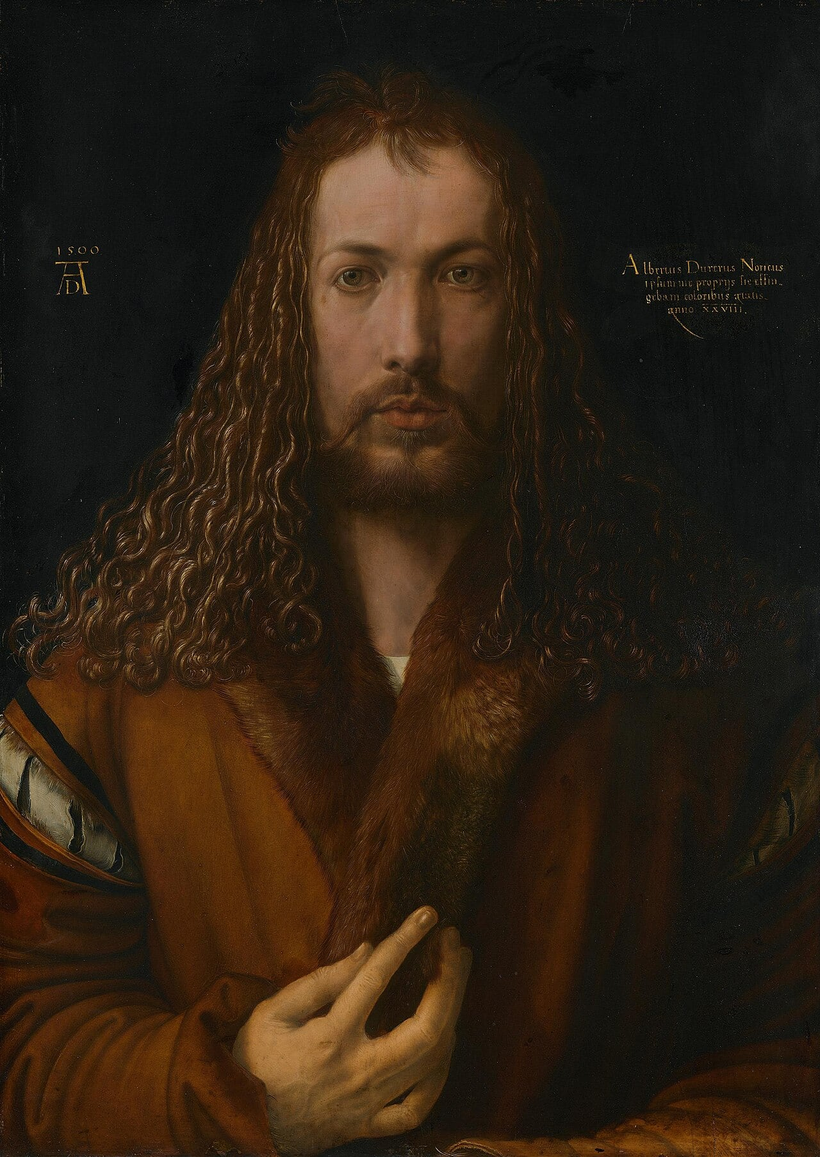
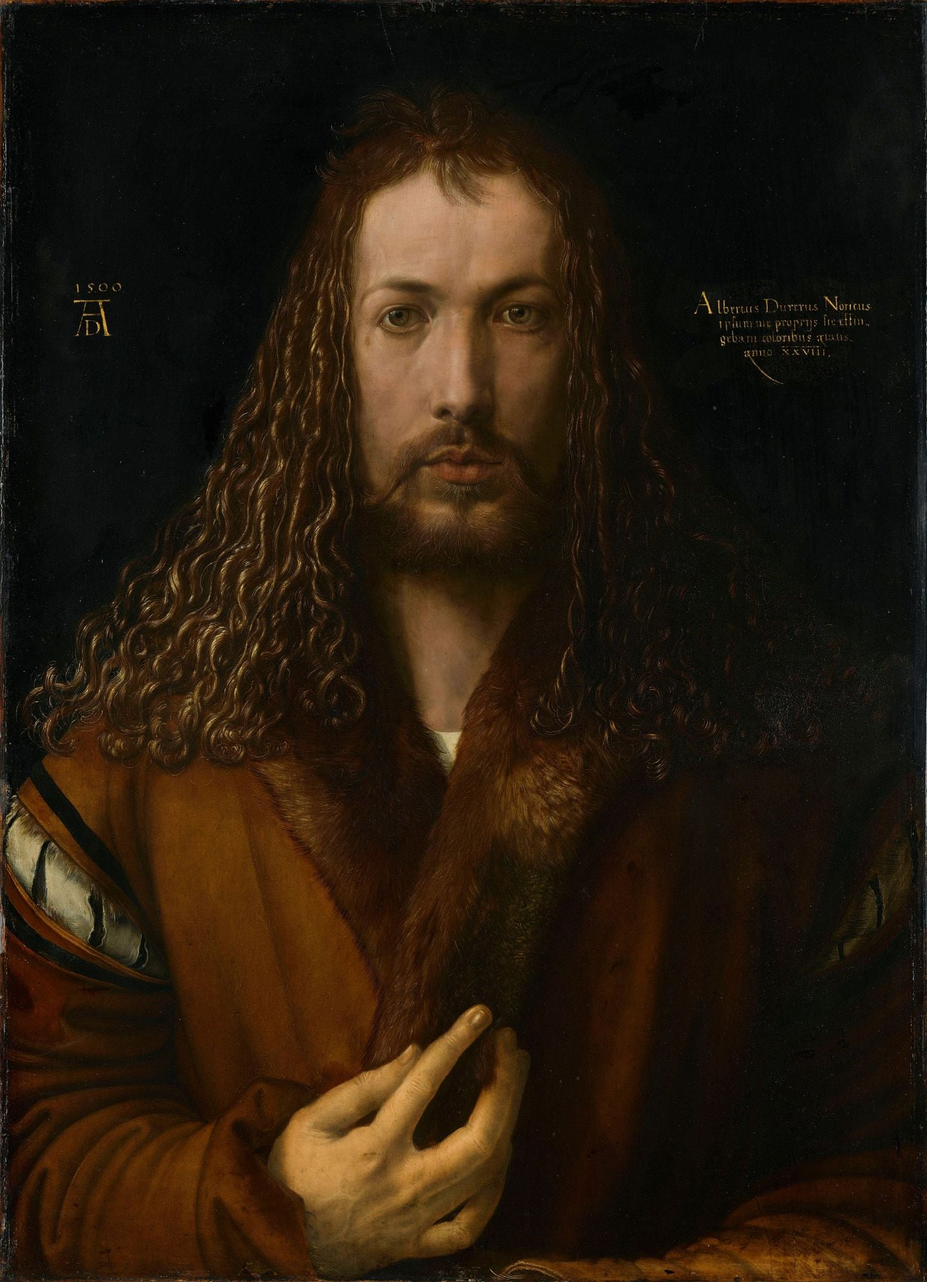
Swap in larger Commons images for Vermeer, Dürer, Caravaggio, Munch, Seurat; fix five zoom points
Vermeer, Dürer, Caravaggio and Munch now meet the 2000px floor; Seurat
improves to 1500px (still under). Source pages now point at the Commons
file pages. Re-aimed zoom points that missed their subject: Dürer
inscription and monogram (new crop), Vermeer pearl, Munch walkers,
Seurat monkey.

Claude-Session: https://claude.ai/code/session_012Kq6sBX1HhkQDKPh5S8gsL

diff --git a/src/content/stories/albrecht-durer.ts b/src/content/stories/albrecht-durer.ts
@@ -46,7 +46,7 @@ export const albrechtDurer: Story = {
     },
     {
       kind: "beat",
-      focus: { x: 78, y: 12, scale: 2.8 },
+      focus: { x: 84, y: 26, scale: 2.8 },
       lines: [
         "Right of his face: four lines of Latin.",
         "His name. His city. His age.",
@@ -55,7 +55,7 @@ export const albrechtDurer: Story = {
     },
     {
       kind: "beat",
-      focus: { x: 11, y: 11, scale: 3 },
+      focus: { x: 10, y: 24, scale: 3 },
       lines: ["Left of his face: a date.", "1500. Under it, A and D."],
       twist: "His initials. Read them again. Anno Domini.",
       caption: "Date and monogram",

diff --git a/src/content/stories/johannes-vermeer.ts b/src/content/stories/johannes-vermeer.ts
@@ -60,7 +60,7 @@ export const johannesVermeer: Story = {
     },
     {
       kind: "beat",
-      focus: { x: 52, y: 60, scale: 3.2 },
+      focus: { x: 62, y: 54, scale: 3.2 },
       lines: ["And the pearl.", "Strokes of white paint. Nothing more."],
       twist: "No hook. Nothing holds it to her ear.",
       caption: "The pearl",

diff --git a/src/content/stories/edvard-munch.ts b/src/content/stories/edvard-munch.ts
@@ -43,7 +43,7 @@ export const edvardMunch: Story = {
     },
     {
       kind: "beat",
-      focus: { x: 24, y: 32, scale: 2.4 },
+      focus: { x: 9, y: 41, scale: 2.4 },
       lines: [
         "Behind him, two men on the road.",
         "The diary again: his friends walked on.",

diff --git a/src/content/stories/georges-seurat.ts b/src/content/stories/georges-seurat.ts
@@ -30,7 +30,7 @@ export const georgesSeurat: Story = {
     },
     {
       kind: "beat",
-      focus: { x: 80, y: 80, scale: 2.4 },
+      focus: { x: 74, y: 85, scale: 2.4 },
       lines: [
         "Bottom right, a woman with a parasol.",
         "At her feet, a pet monkey.",
